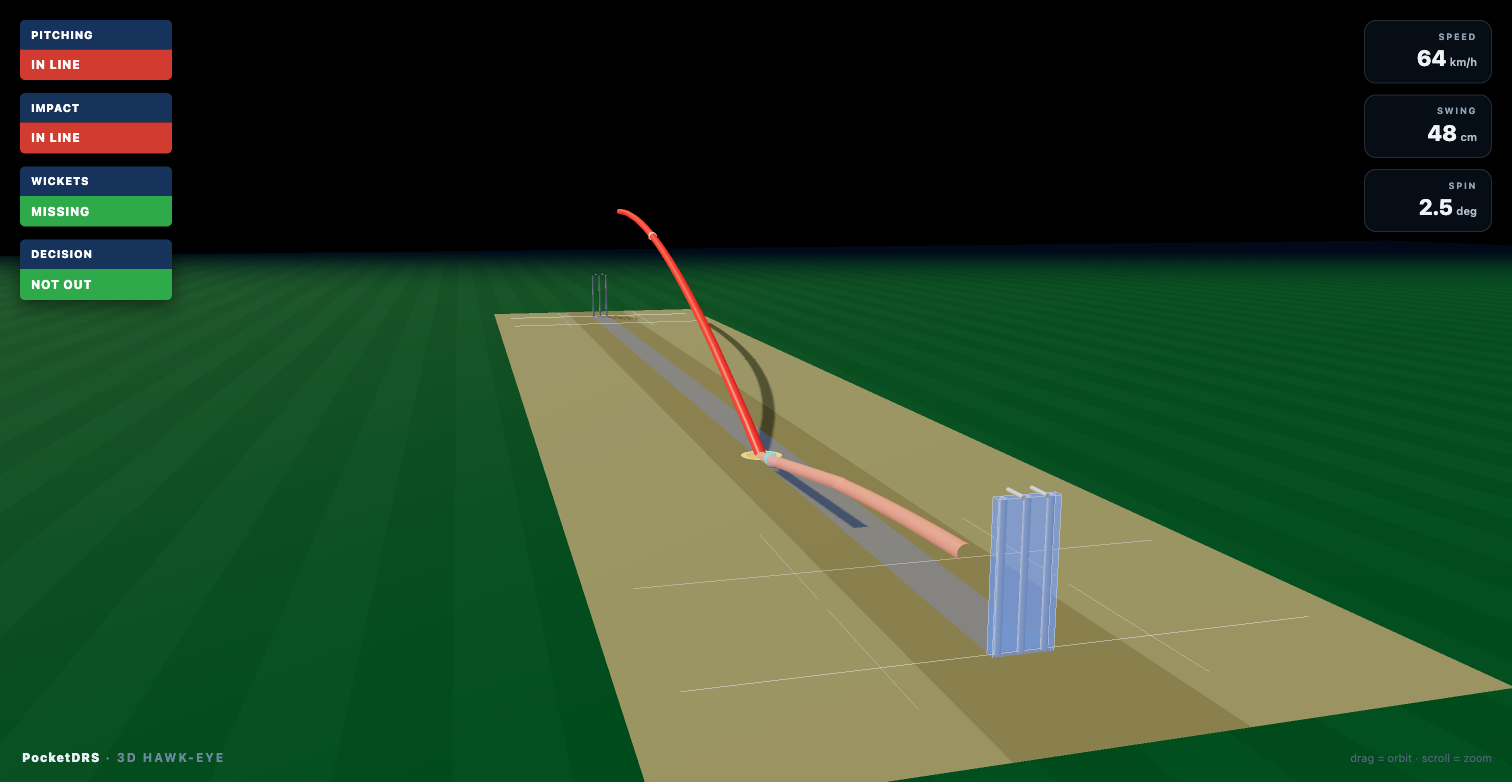
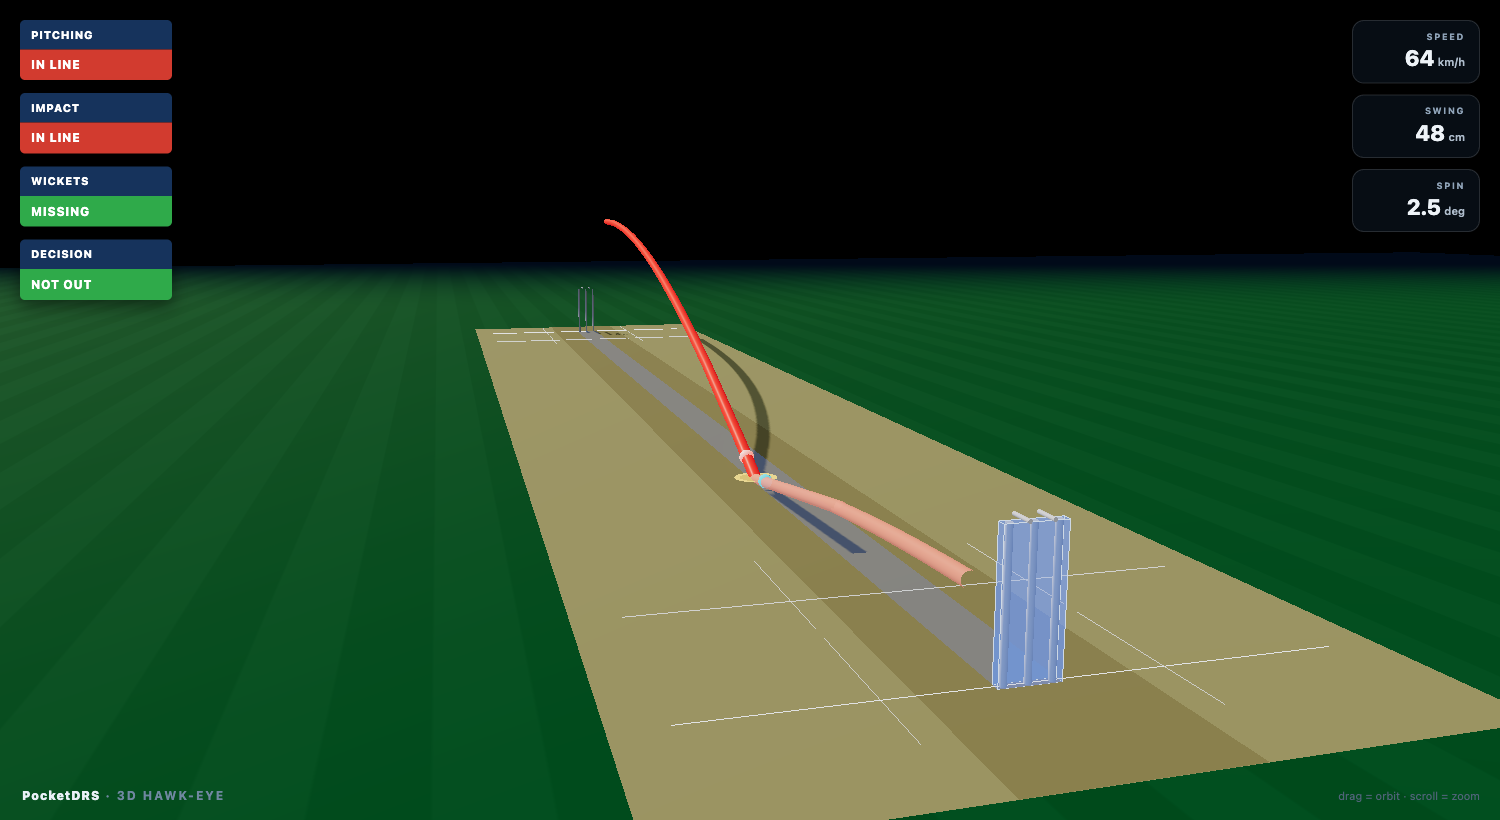
Refresh all assets to current pipeline: real screenshots, diagrams, docs
- app_calibration.png + app_result_out.png: genuine Flutter-web renders captured
  via Playwright (calibration screen with 4 corners marked; result screen on the
  tracked video).
- test3_overlay / test3_path_overlay / test3_3d_path: regenerated from the latest
  test3 pipeline run + current Three.js Hawk-Eye viewer.
- Diagrams regenerated (architecture node now shows YOLO).
- Report (59pp) + deck (19 slides) rebuilt clean.
- Tests: synthetic 8/8 pass; test3 e2e pass.

diff --git a/app/pocket_drs/lib/screenshot_calib_main.dart b/app/pocket_drs/lib/screenshot_calib_main.dart
@@ -1,0 +1,79 @@
+// Screenshot harness: renders the real ImageMarker pitch-calibration screen
+// with the test3 frame and its four corner taps pre-placed. Not shipped.
+// Build:  flutter build web -t lib/screenshot_calib_main.dart
+import 'dart:typed_data';
+
+import 'package:flutter/material.dart';
+import 'package:http/http.dart' as http;
+
+import 'src/theme/app_theme.dart';
+import 'src/widgets/image_marker.dart';
+
+void main() => runApp(const CalibApp());
+
+class CalibApp extends StatelessWidget {
+  const CalibApp({super.key});
+  @override
+  Widget build(BuildContext context) => MaterialApp(
+        debugShowCheckedModeBanner: false,
+        theme: AppTheme.light(),
+        home: const CalibPage(),
+      );
+}
+
+class CalibPage extends StatefulWidget {
+  const CalibPage({super.key});
+  @override
+  State<CalibPage> createState() => _CalibPageState();
+}
+
+class _CalibPageState extends State<CalibPage> {
+  Uint8List? _bytes;
+  String? _err;
+
+  @override
+  void initState() {
+    super.initState();
+    _load();
+  }
+
+  Future<void> _load() async {
+    try {
+      final r = await http.get(Uri.parse('frame0.jpg'));
+      setState(() => _bytes = r.bodyBytes);
+    } catch (e) {
+      setState(() => _err = '$e');
+    }
+  }
+
+  @override
+  Widget build(BuildContext context) {
+    if (_err != null) return Scaffold(body: Center(child: Text('ERR $_err')));
+    final b = _bytes;
+    if (b == null) {
+      return const Scaffold(body: Center(child: CircularProgressIndicator()));
+    }
+    return Scaffold(
+      body: ImageMarker(
+        imageBytes: b,
+        maxMarkers: 4,
+        title: 'Mark Pitch Corners',
+        subtitle: 'Tap clockwise from the striker end',
+        markerLabels: const [
+          'Striker Left',
+          'Striker Right',
+          'Bowler Right',
+          'Bowler Left',
+        ],
+        // test3 recovered corners (normalized 0..1), matching test3_e2e.py.
+        initialMarkers: const [
+          Offset(0.324, 0.521),
+          Offset(0.704, 0.521),
+          Offset(0.787, 0.911),
+          Offset(0.185, 0.911),
+        ],
+        onComplete: (_) {},
+      ),
+    );
+  }
+}